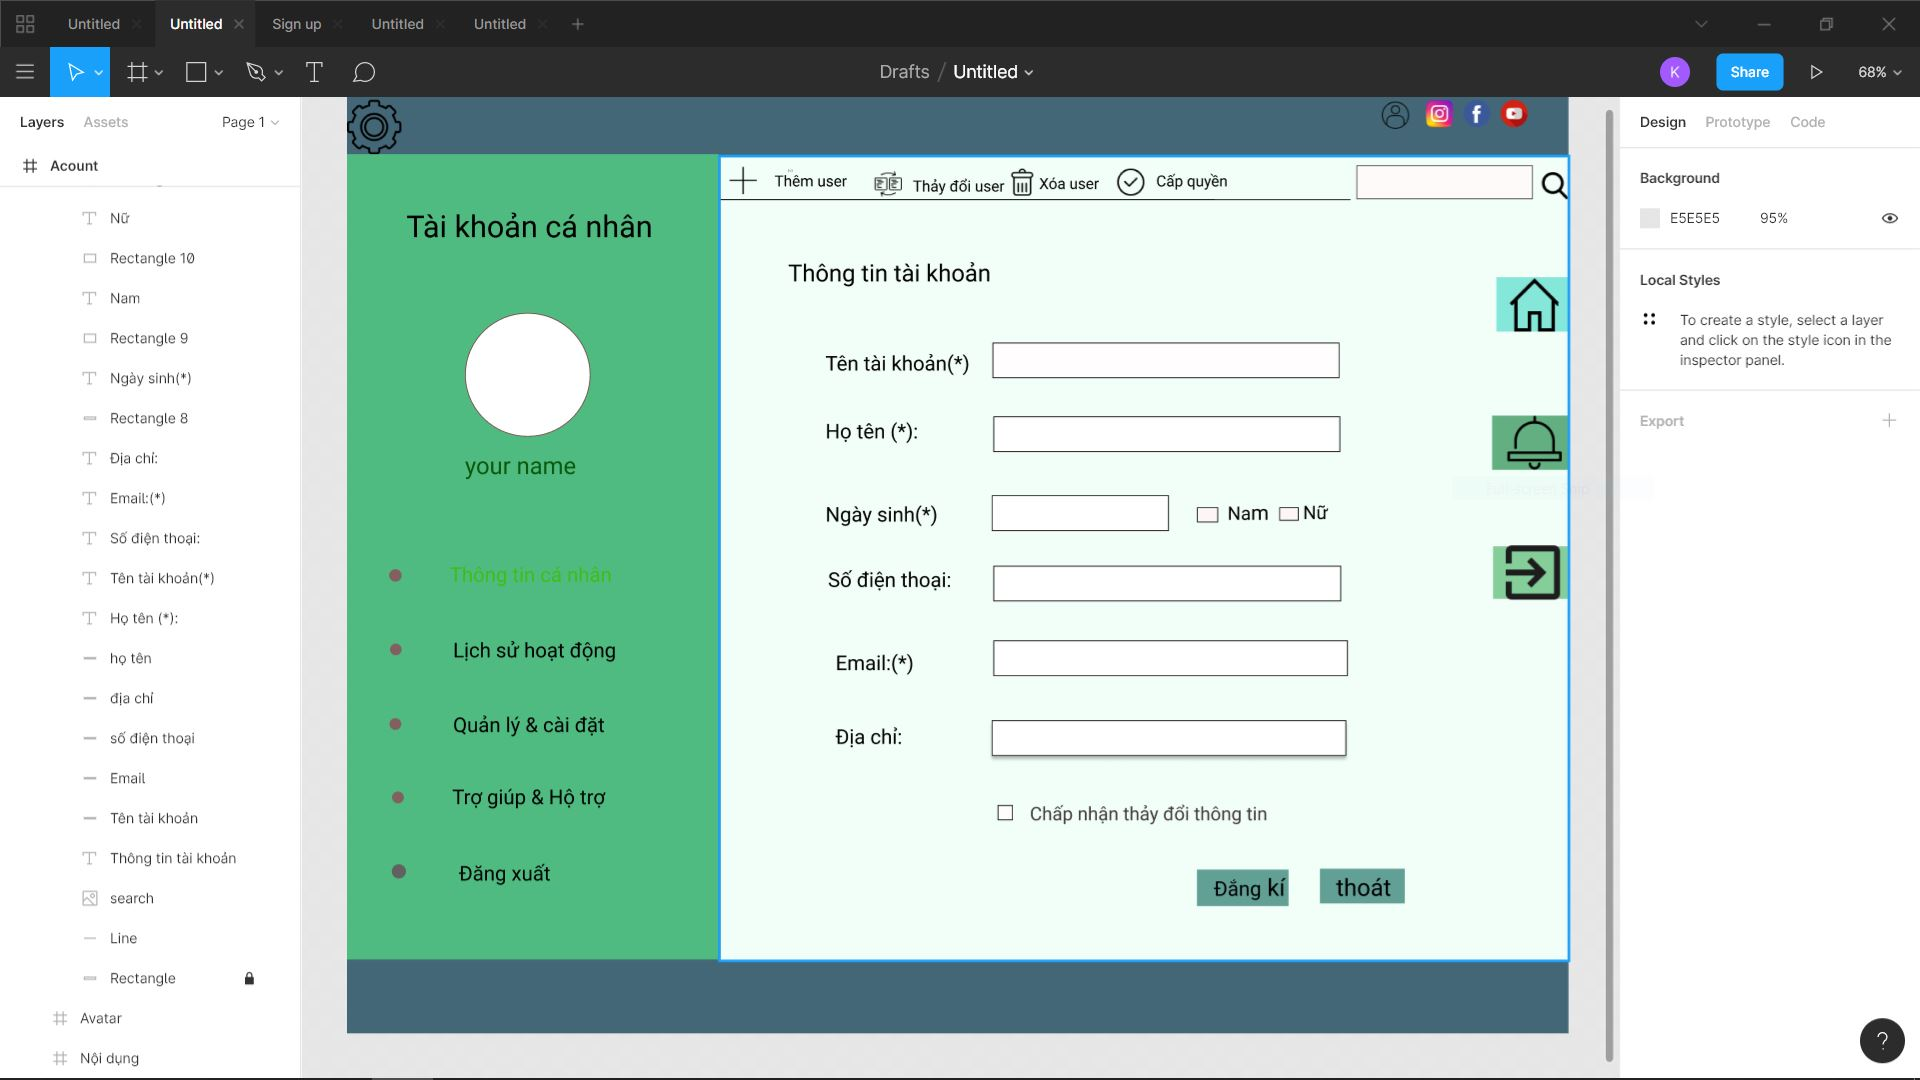
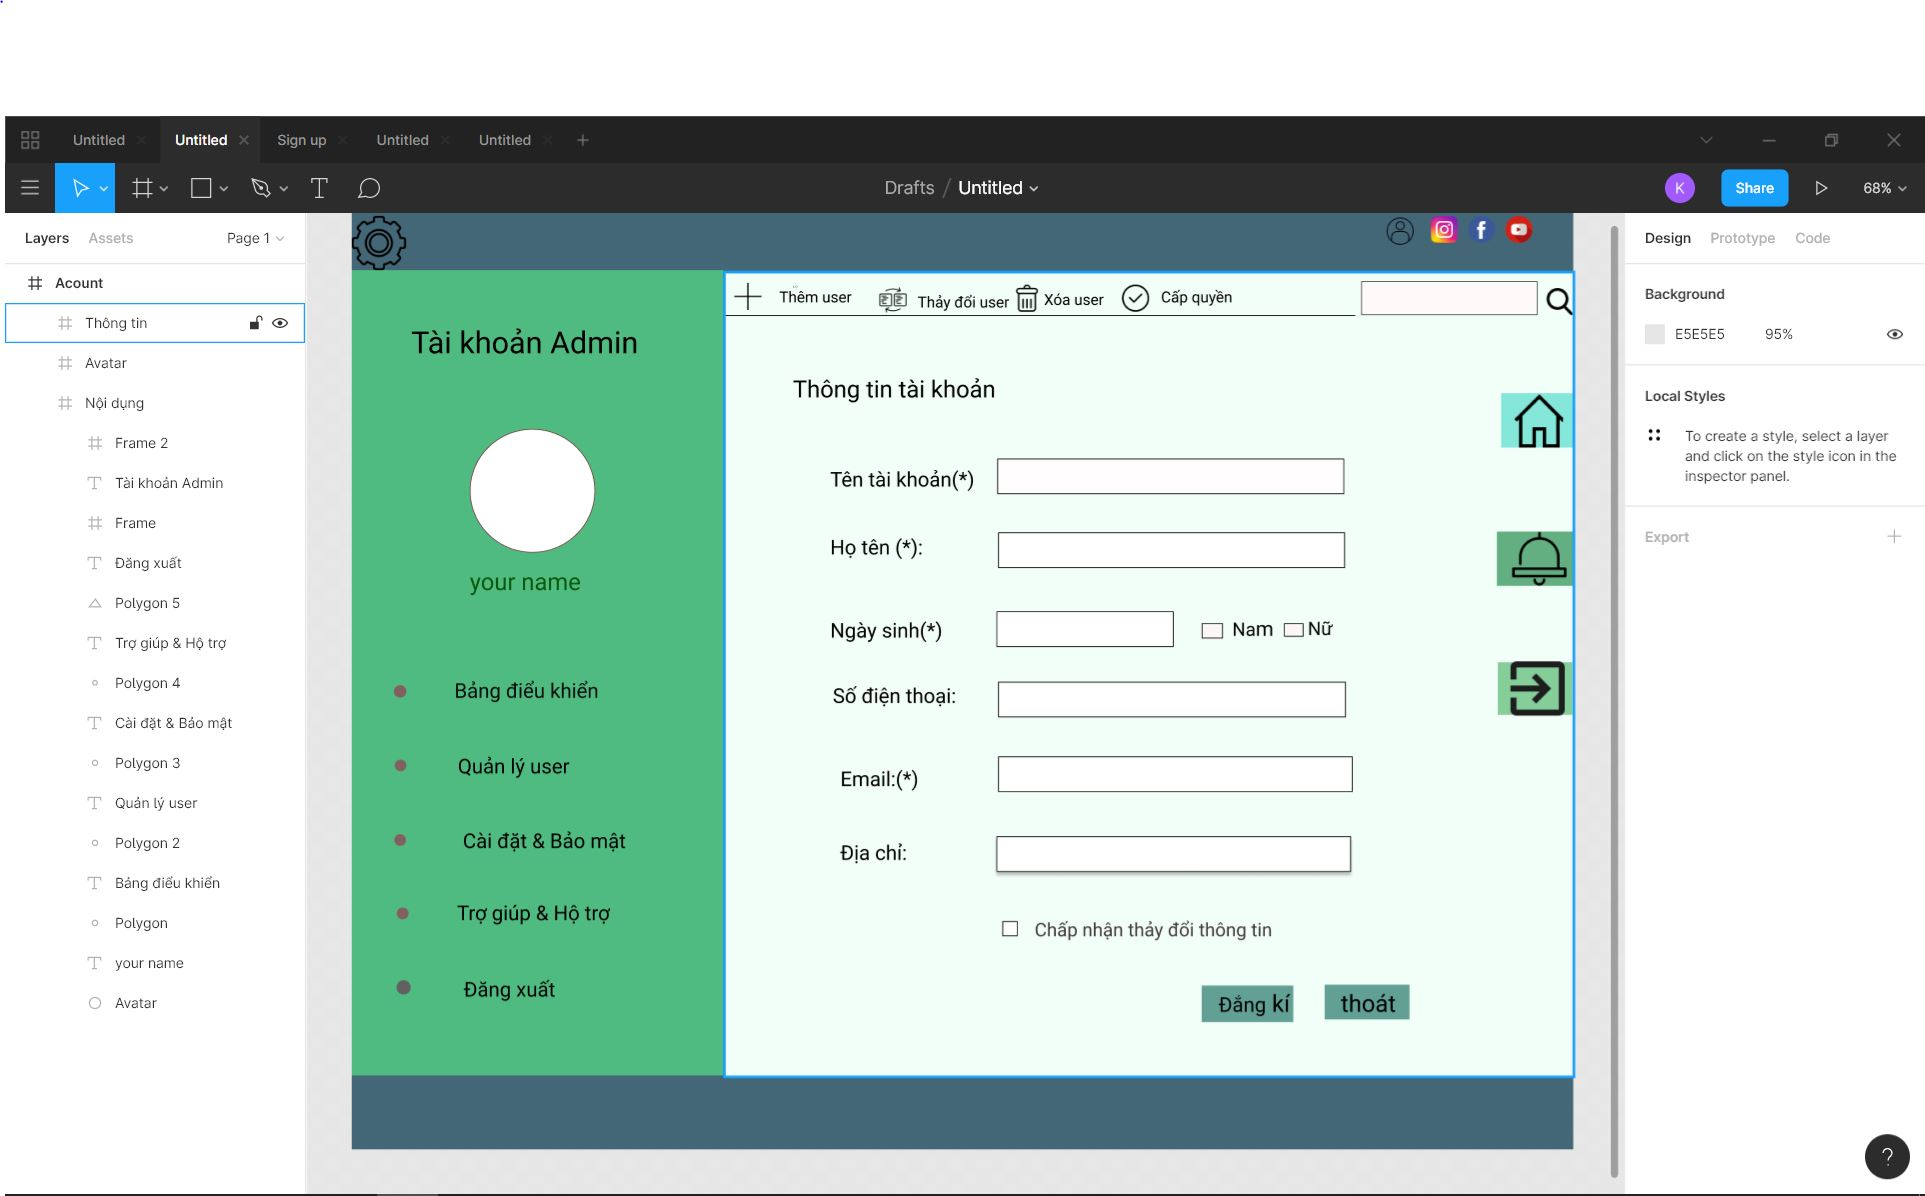
Add files via upload

diff --git a/17130173_Design/lab1.html b/17130173_Design/lab1.html
@@ -83,8 +83,8 @@
         <ul>
           <a href="#" > <li>Bảng điều khiển</li></a>
           <a href="#" >     <li>Quản lý user</li></a>
-          <a href="#" >     <li>Cài đặt</li></a>
-          <a href="#" >      <li>Trợ giúp</li></a>
+          <a href="#" >     <li>Cài đặt &Bảo mật</li></a>
+          <a href="#" >      <li>Trợ giúp & Hộ trợ</li></a>
           <a href="#" >    <li> Đắng xuất</li></a>
 
 
